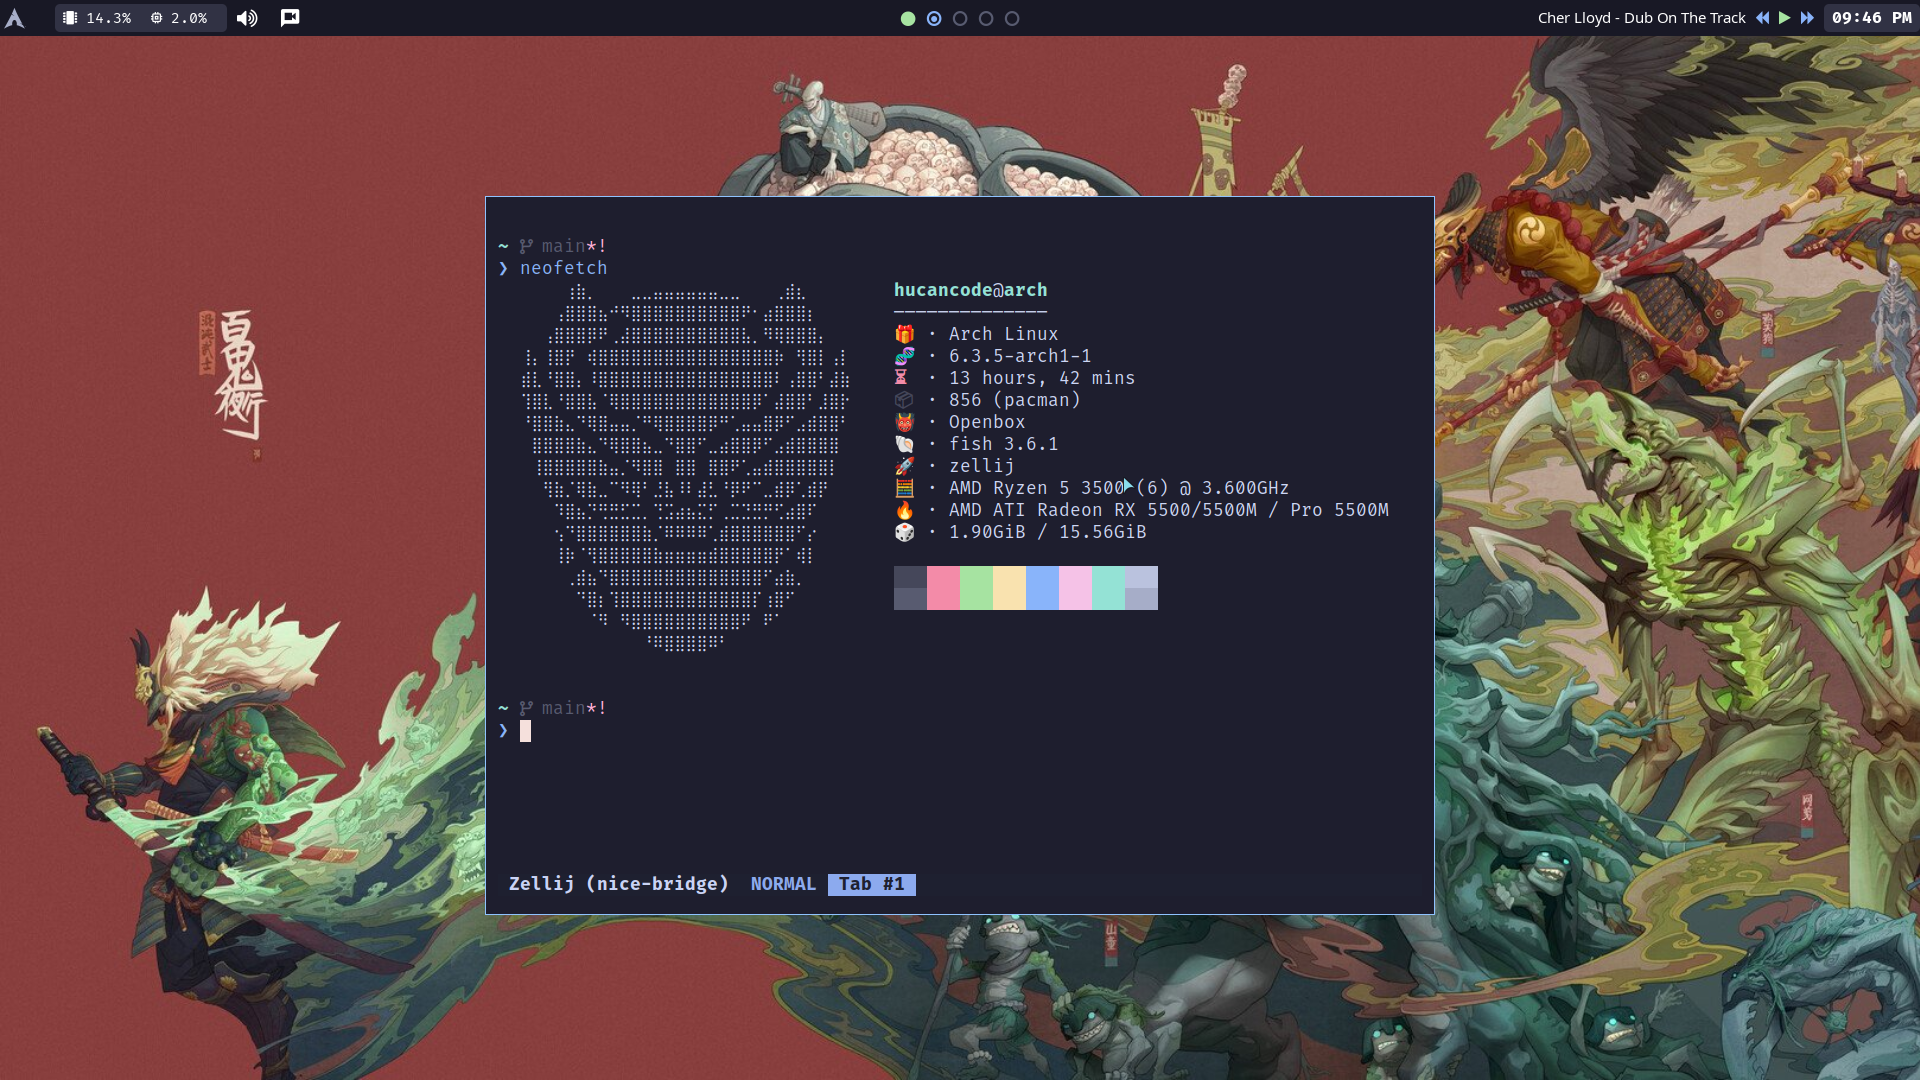
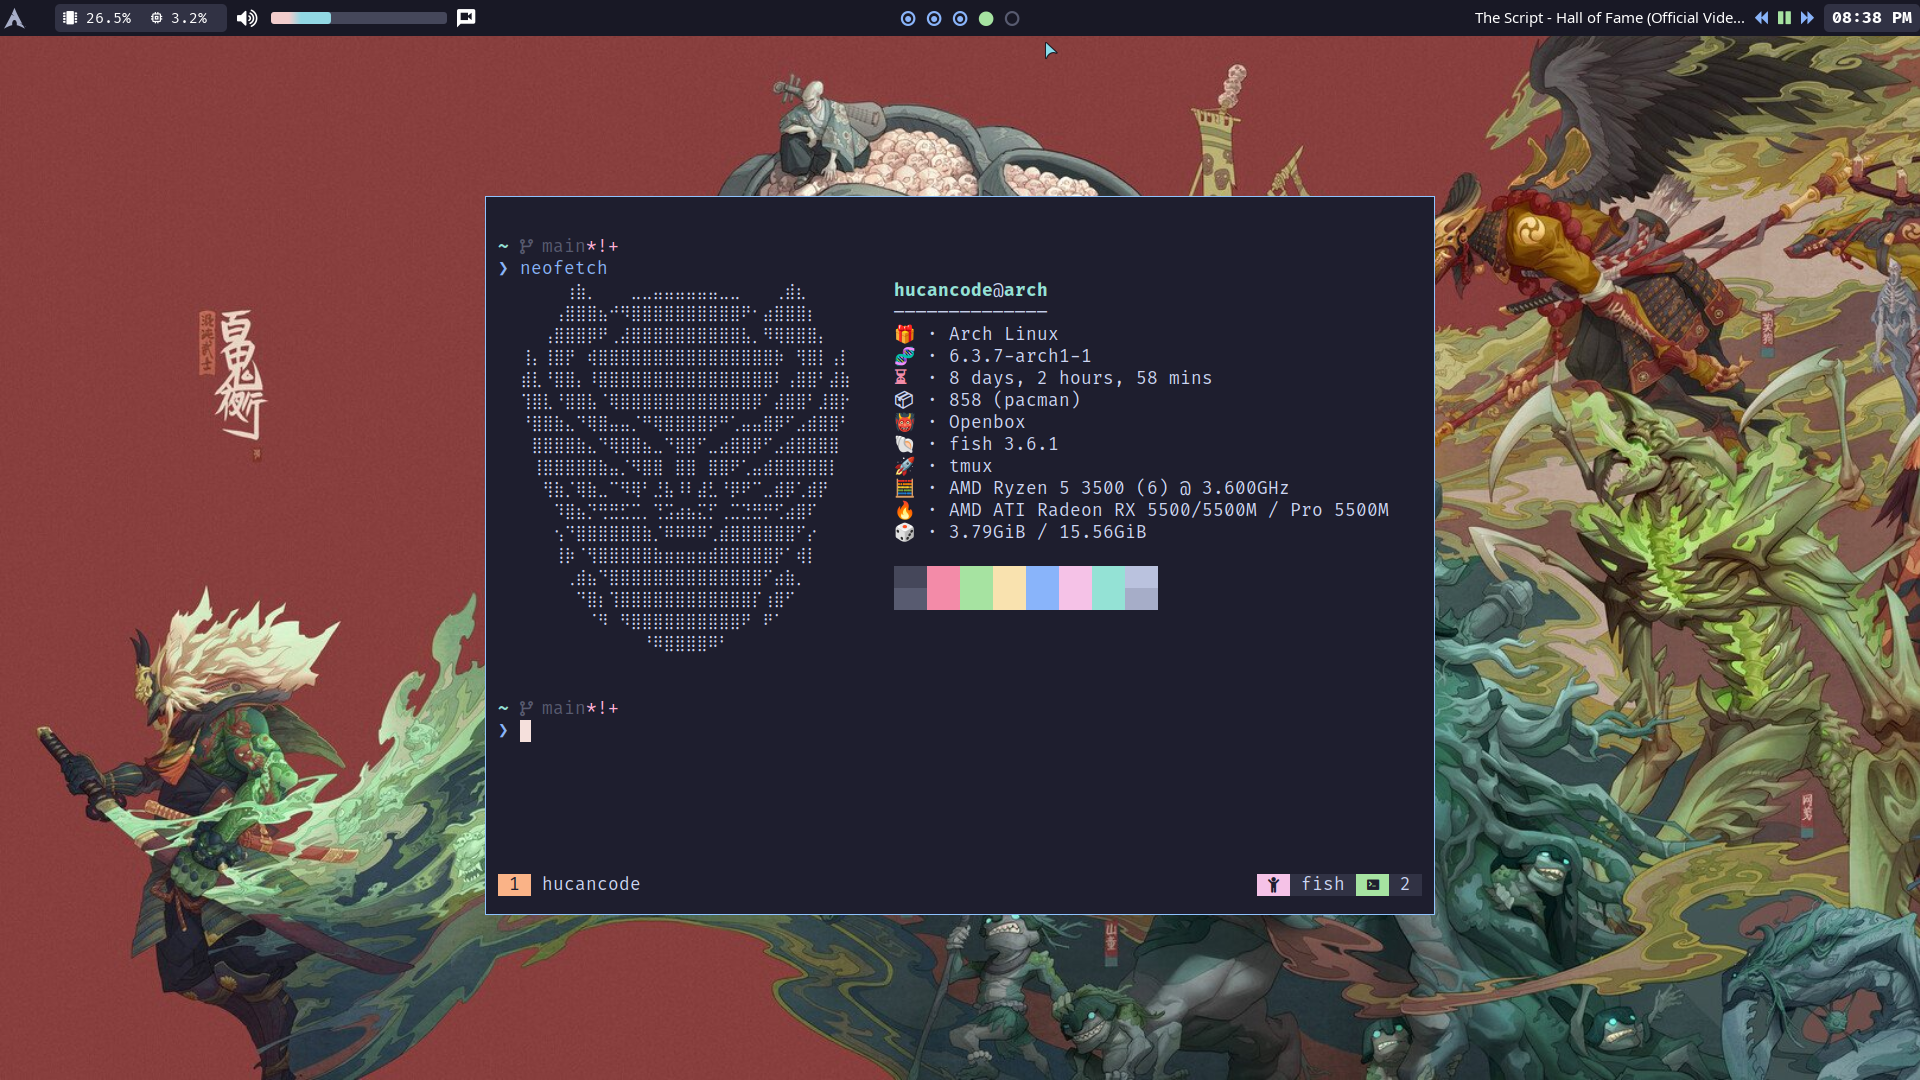
bring back tmux

diff --git a/README.md b/README.md
@@ -14,7 +14,7 @@
 - 🔔 Notification panel [dunst](https://wiki.archlinux.org/title/dunst)
 - 📂 File manager [joshuto](https://github.com/kamiyaa/joshuto) and [thunar](https://docs.xfce.org/xfce/thunar/start)
 - 📋 Text editor [helix](https://helix-editor.com/) and [mousepad](https://docs.xfce.org/apps/mousepad/start)
-- 💻 Shell and terminal emulator [fish](https://wiki.archlinux.org/title/fish), [zellij](https://zellij.dev), [alacritty](https://alacritty.org/)
+- 💻 Shell and terminal emulator [fish](https://wiki.archlinux.org/title/fish), [tmux](https://github.com/tmux/tmux), [alacritty](https://alacritty.org/)
 - 🎧 Music player [mpd](https://wiki.archlinux.org/title/Music_Player_Daemon) and [ario](https://ario-player.sourceforge.net/)
 
 # 👀 Screenshots
@@ -46,7 +46,7 @@ lightdm lightdm-gtk-greeter lightdm-gtk-greeter-settings arc-gtk-theme
 ttf-fira-code noto-fonts noto-fonts-cjk noto-fonts-emoji
 openbox rofi yad dunst nitrogen xclip xdotool maim
 i3lock-color eww ksuperkey firefox thunar joshuto
-alacritty helix zellij fzf fd ripgrep exa git-delta starship rustup nodejs npm tree-sitter
+alacritty helix tmux fzf fd ripgrep exa git-delta starship rustup nodejs npm tree-sitter
 ```
 
 ## 🐚 After install
